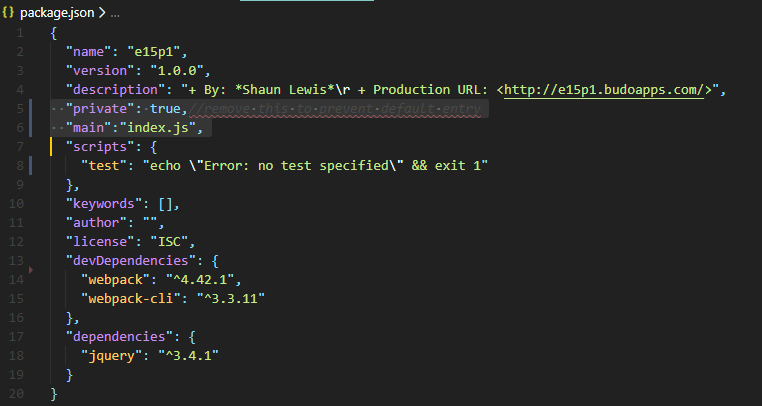
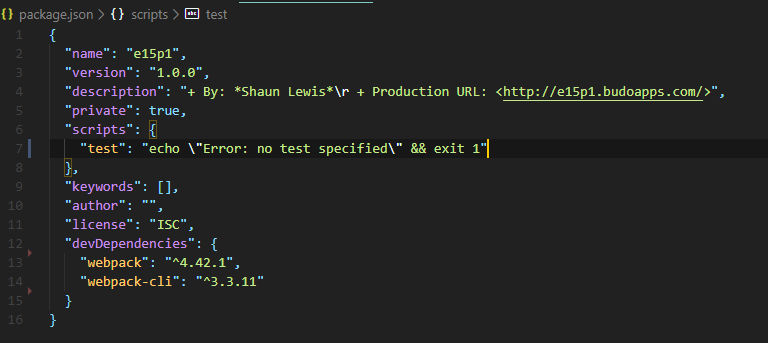
update independent study

diff --git a/Independent-Study/README.md b/Independent-Study/README.md
@@ -74,6 +74,11 @@ npm install webpack webpack-cli --save-dev
 
 ![node dependencies and webpack](https://github.com/budostylz/e15/blob/master/Independent-Study/images/webpack-standalone/js/image7.PNG)
 
+### Let's turn to our `package.json` and set `private` to `true` and remove our `main` entry since we'll define that in our `webpack.config.js` in the next steps.
+### Setting `private` to true prevents npm from [publishing](https://stackoverflow.com/questions/7314849/what-is-purpose-of-the-property-private-in-package-json) it.
+![package.json](https://github.com/budostylz/e15/blob/master/Independent-Study/images/webpack-standalone/js/image111.PNG)
+
+
 ### Let us do some clean up and changes to our project directory structure.
 ### Next we'll create our `src` and `dist` folders.
 ![node dependencies and webpack](https://github.com/budostylz/e15/blob/master/Independent-Study/images/webpack-standalone/js/image8.PNG)
@@ -102,9 +107,10 @@ npm install webpack webpack-cli --save-dev
 ![node dependencies and webpack](https://github.com/budostylz/e15/blob/master/Independent-Study/images/webpack-standalone/js/image13.PNG)
 
 
-### Let's turn to our `package.json` and set `private` to `true` and remove our `main` entry since we'll define that in our `webpack.config.js` in the next steps.
-### Setting `private` to true prevents npm from [publishing](https://stackoverflow.com/questions/7314849/what-is-purpose-of-the-property-private-in-package-json) it.
-![package.json](https://github.com/budostylz/e15/blob/master/Independent-Study/images/webpack-standalone/js/image11.PNG)
+
+### We're going to create our `webpack.config.js` file which will map our assets and builds.
+
+
 
 
 
